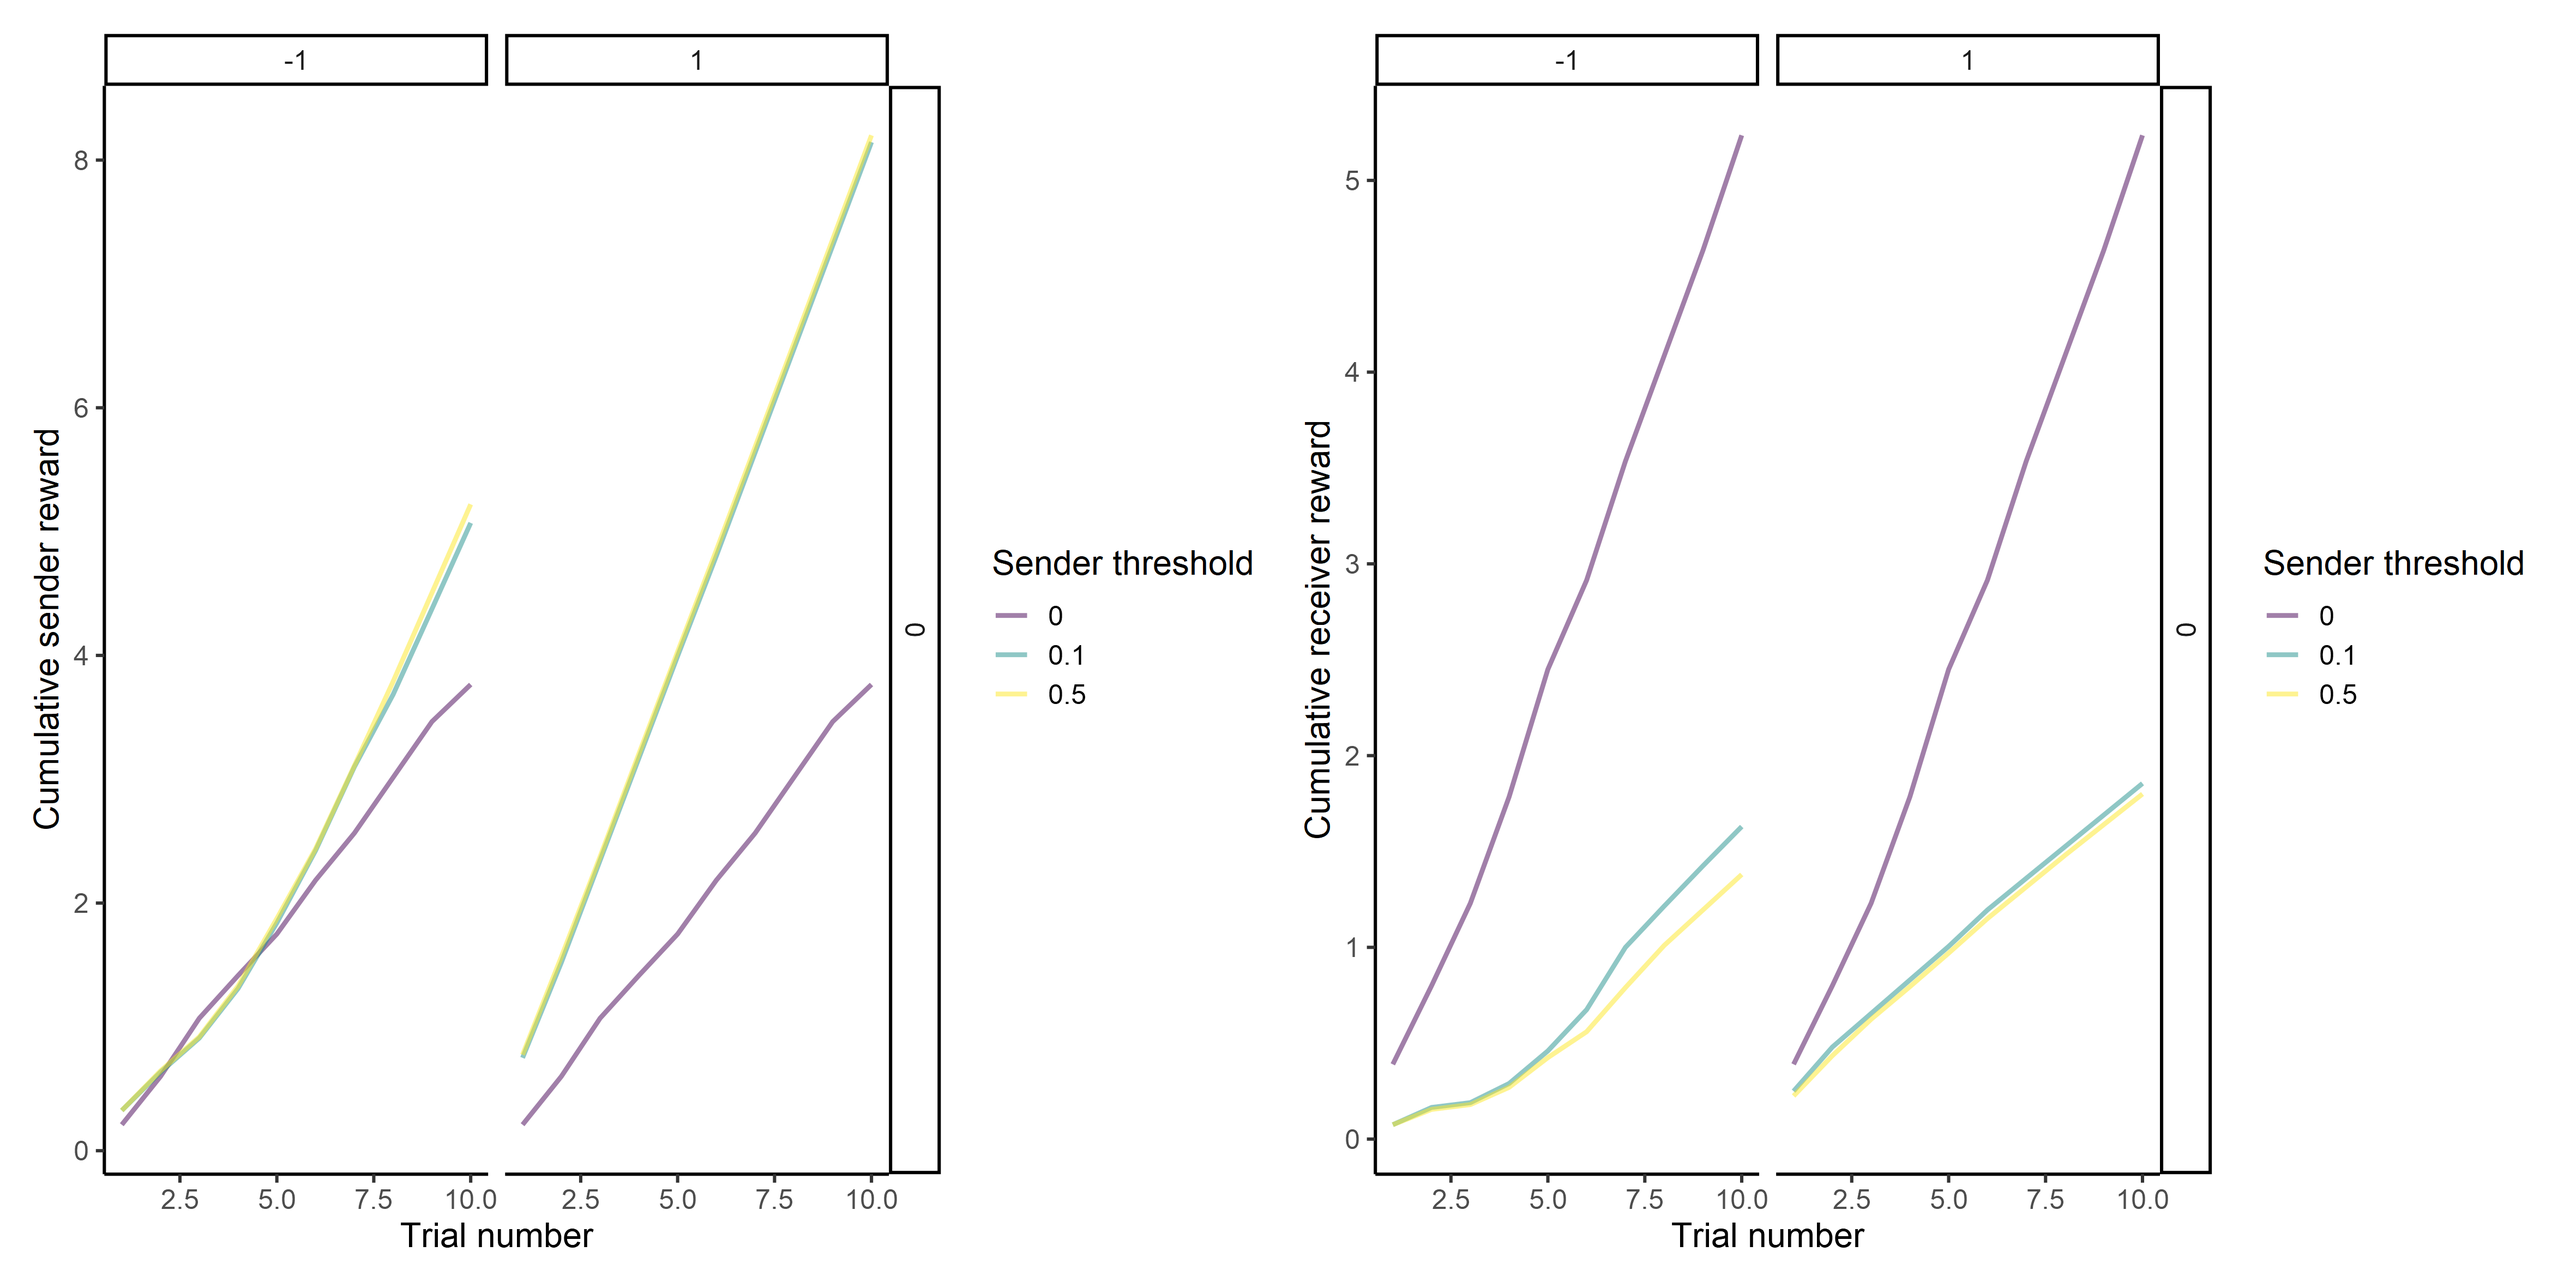
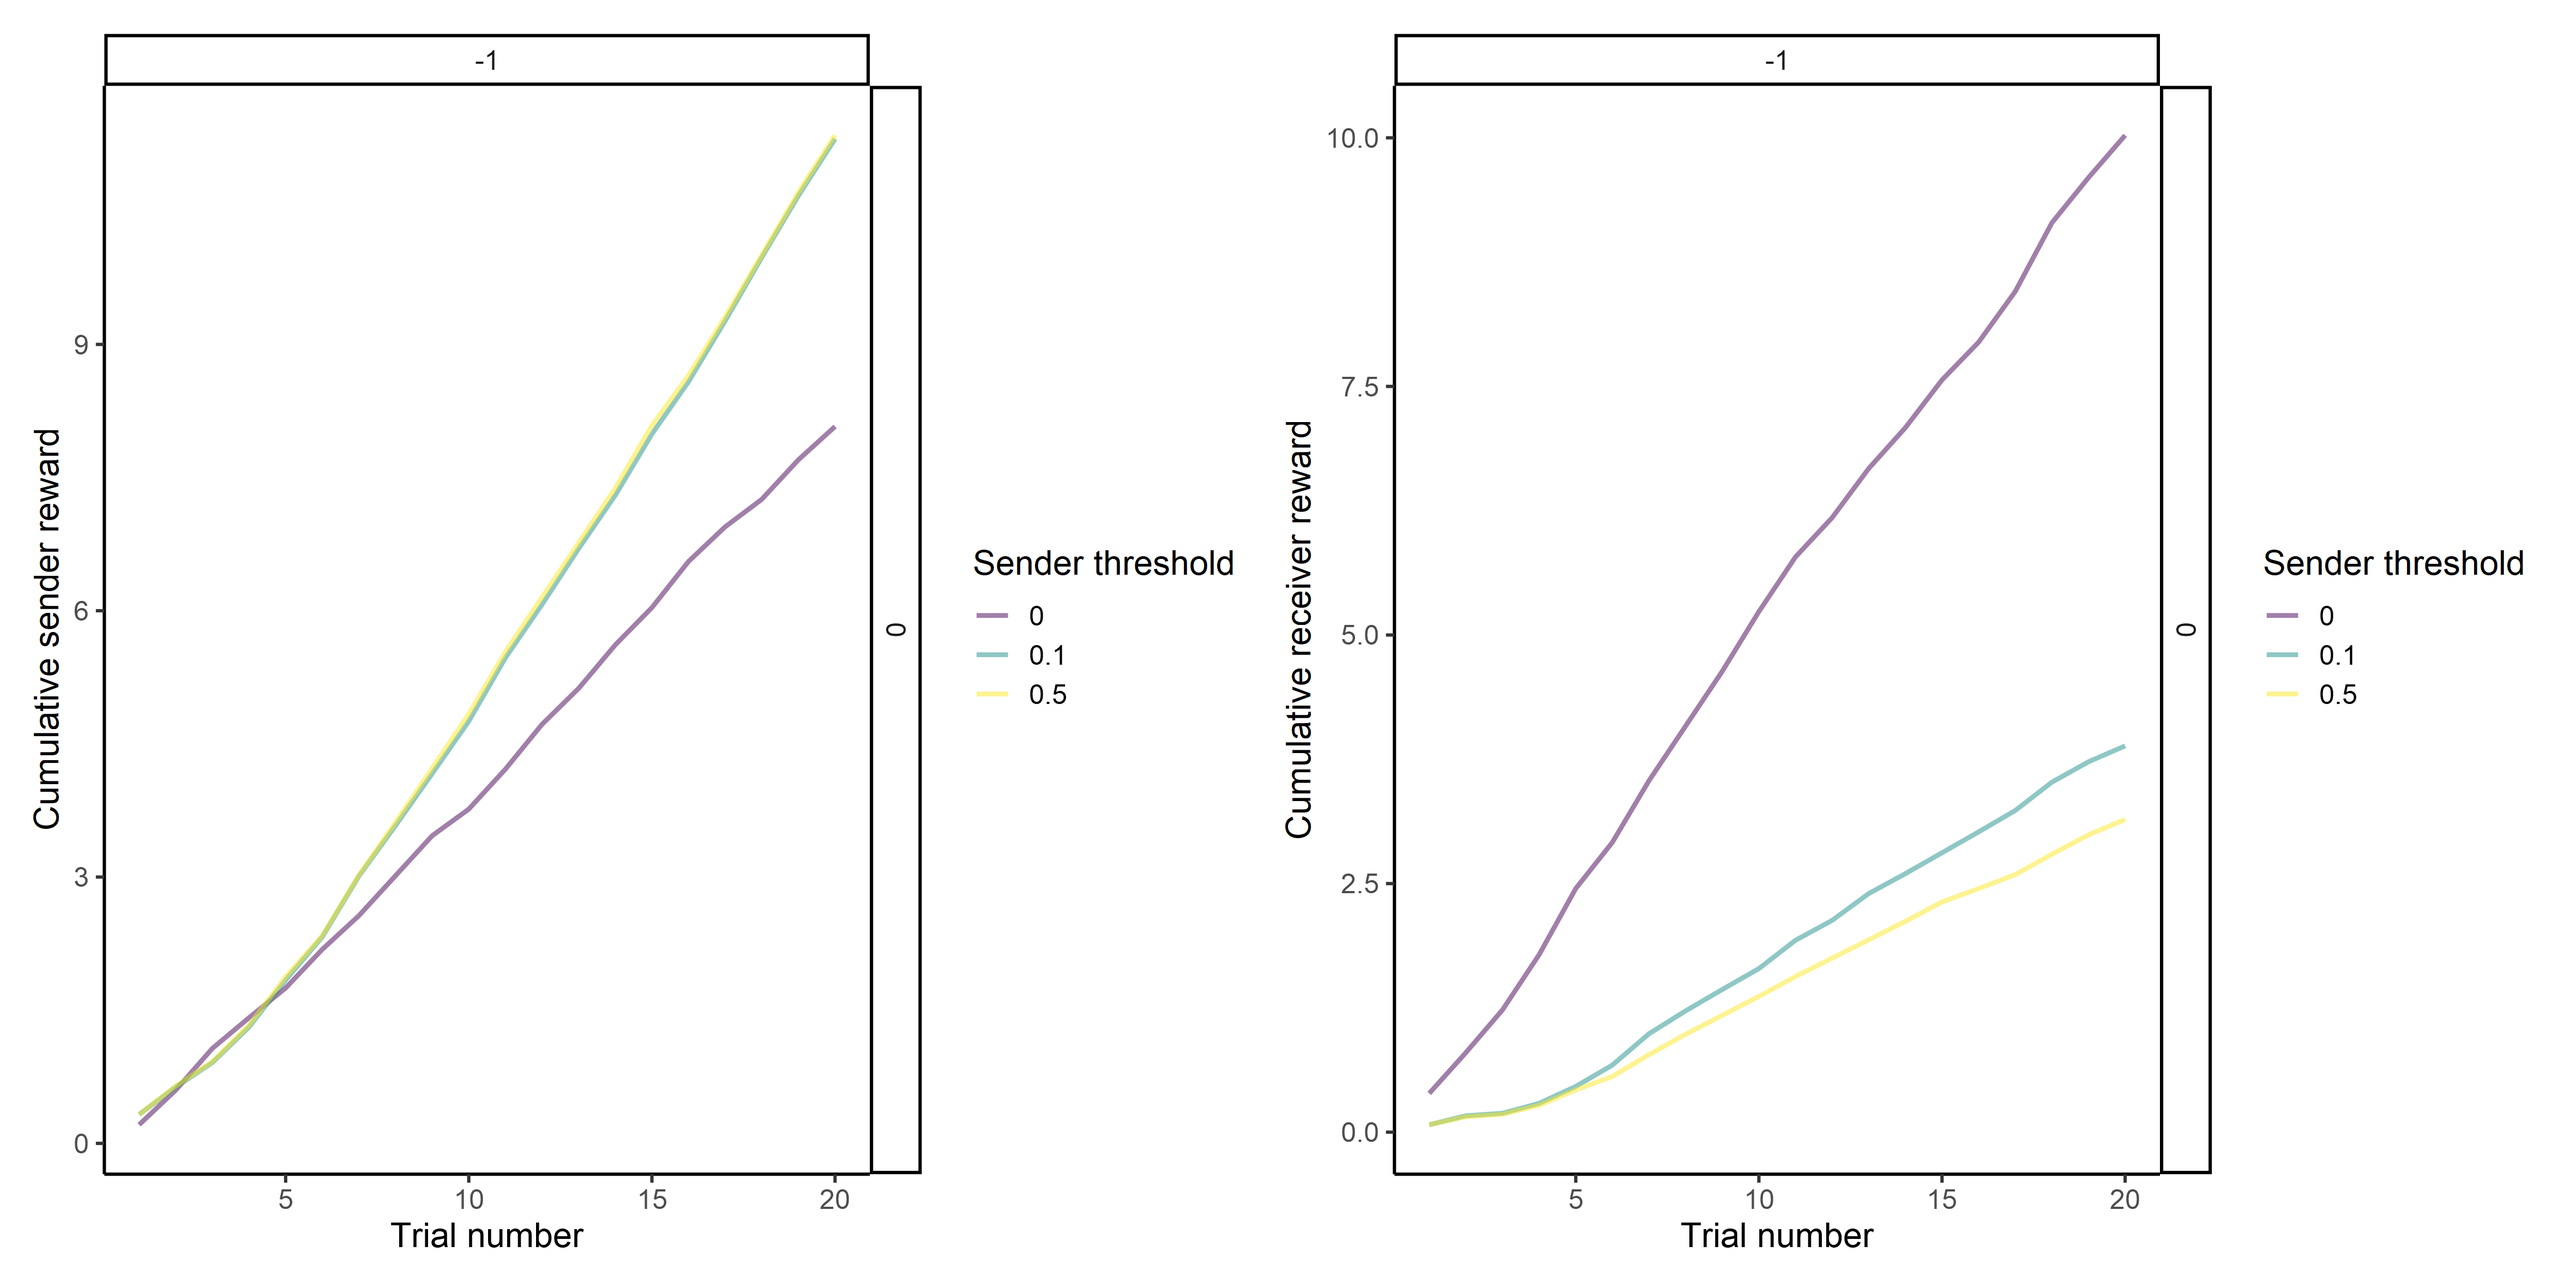
Fix nested Rational SI bounds

diff --git a/agents_models/abstract_agents.py b/agents_models/abstract_agents.py
@@ -29,20 +29,20 @@ class SubIntentionalAgent(ABC):
         self.potential_actions = actions
         self._threshold = threshold
         self.softmax_temp = softmax_temp
-        self._high = 1-self.threshold if threshold is not None else 1.0
-        self.low = 0.0
+        self._high = [1-self.threshold if threshold is not None else 1.0]
+        self.low = [0.0]
         self.name = None
         self.history = History()
         self.belief = SubIntentionalBelief(self.history)
         self._alpha = None
 
     def reset(self, high: Optional[float] = 1.0, low: Optional[float] = 0.0, terminal: Optional[bool] = False):
-        self._high = high
-        self.low = low
+        self._high = [high]
+        self.low = [low]
         self.reset_belief()
         self.reset_solver()
         if terminal:
-            self._high = 1-self.threshold if self.threshold is not None else 1.0
+            self._high = [1-self.threshold if self.threshold is not None else 1.0]
             self.low = 0.0
             self.history.reset(0, 0)
 
@@ -57,7 +57,7 @@ class SubIntentionalAgent(ABC):
     @threshold.setter
     def threshold(self, gamma):
         self._threshold = gamma
-        self._high = 1 - gamma if gamma is not None else 1.0
+        self._high = [1 - gamma if gamma is not None else 1.0]
 
     def softmax_transformation(self, q_values):
         softmax_transformation = np.exp(q_values / self.softmax_temp)
@@ -68,7 +68,7 @@ class SubIntentionalAgent(ABC):
 
     def act(self, seed, action: Optional[Action] = None, observation: Optional[Action] = None,
             iteration_number: Optional[int] = None) -> [float, np.array]:
-        self.update_bounds(action, observation)
+        self.update_bounds(action, observation, iteration_number)
         seed = self.update_seed(seed, iteration_number)
         relevant_actions, q_values, probabilities = self.forward(action, observation, iteration_number)
         random_number_generator = np.random.default_rng(seed)
@@ -81,7 +81,7 @@ class SubIntentionalAgent(ABC):
     def forward(self, action: Action, observation: Action, iteration_number=None):
         pass
 
-    def update_bounds(self, action: Action, observation: Action):
+    def update_bounds(self, action: Action, observation: Action, iteration_number: Optional[int]):
         pass
 
     def update_history(self, action: Action, observation: Action, reward: float):
@@ -157,8 +157,8 @@ class DoMZeroEnvironmentModel(EnvironmentModel):
         self.low = self.opponent_model.low
         self.high = self.opponent_model.high
 
-    def update_low_and_high(self, observation, action):
-        self.opponent_model.update_bounds(observation, action)
+    def update_low_and_high(self, observation, action, iteration_number):
+        self.opponent_model.update_bounds(observation, action, iteration_number)
         self.low = self.opponent_model.low
         self.high = self.opponent_model.high
 
@@ -189,7 +189,7 @@ class DoMZeroEnvironmentModel(EnvironmentModel):
         interactive_state.state.name = str(int(interactive_state.state.name) + 1)
         return interactive_state, counter_offer, reward, observation_probability
 
-    def update_persona(self, observation, action):
+    def update_persona(self, observation, action, iteration_number):
         pass
 
 
@@ -259,7 +259,7 @@ class DoMZeroModel(SubIntentionalAgent):
             best_action = action_nodes[actions[best_action_idx]].action
         else:
             best_action = action_nodes[actions[best_action_idx]]
-        self.environment_model.update_persona(observation, best_action)
+        self.environment_model.update_persona(observation, best_action, iteration_number)
         self.history.update_actions(best_action)
         self.environment_model.opponent_model.history.update_observations(best_action)
         if action_nodes is not None:

diff --git a/agents_models/subintentional_agents/subintentional_senders.py b/agents_models/subintentional_agents/subintentional_senders.py
@@ -24,20 +24,24 @@ class RandomSubIntentionalSender(SubIntentionalAgent):
     def update_seed(self, seed, number):
         return seed + number
 
-    def update_bounds(self, action: Action, observation: Action):
+    def update_bounds(self, action: Action, observation: Action, iteration_number):
         if action.value is None or observation.value is None:
             return None
         # If the subject accepted the offer the upper bound is updated
+        high = self.high[iteration_number - 1]
+        low = self.low[iteration_number - 1]
         if observation.value:
-            self._high = min(action.value, 1.0-self.threshold)
+            high = min(action.value, 1.0-self.threshold)
         # If the offer is rejected the upper bound is updated
         else:
-            self.low = max(action.value, self.low)
+            low = max(action.value, self.low[iteration_number-1])
         # If the opponent plays tricks with us
-        if self._high < self.low:
-            temp = self._high
-            self._high = self.low
-            self.low = temp
+        if high < low:
+            temp = high
+            high = low
+            low = temp
+        self.low.append(low)
+        self.high.append(high)
 
 
 class SoftMaxRationalRandomSubIntentionalSender(RandomSubIntentionalSender):
@@ -59,7 +63,11 @@ class SoftMaxRationalRandomSubIntentionalSender(RandomSubIntentionalSender):
             self._name = "DoM(-1)_Rational"
 
     def _compute_weights(self, offers, low_bound, up_bound):
-        w = np.logical_not(np.logical_and(low_bound < offers, offers <= up_bound))
+        if low_bound < up_bound:
+            w = np.logical_not(np.logical_and(low_bound < offers, offers <= up_bound))
+        # If both bounds are equal to the threshold we do not penalize it
+        else:
+            w = np.logical_not(np.logical_and(low_bound <= offers, offers <= up_bound))
         w_prime = self.penalty * w
         return w_prime
 
@@ -77,7 +85,7 @@ class SoftMaxRationalRandomSubIntentionalSender(RandomSubIntentionalSender):
         return self.potential_actions, q_values, probabilities
 
     def forward(self, action: Action, observation: Action, iteration_number=None):
-        self.update_bounds(action, observation)
+        self.update_bounds(action, observation, iteration_number)
         # Random agents act fully random
         if self.threshold == 0.0:
             potential_actions, q_values, probabilities = self.random_forward(action, observation)

diff --git a/agents_models/intentional_agents/tom_zero_agents/tom_zero_receiver.py b/agents_models/intentional_agents/tom_zero_agents/tom_zero_receiver.py
@@ -44,10 +44,10 @@ class DoMZeroReceiverEnvironmentModel(DoMZeroEnvironmentModel):
     def __init__(self, opponent_model: SubIntentionalAgent, reward_function, actions, belief_distribution: DomZeroReceiverBelief):
         super().__init__(opponent_model, reward_function, actions, belief_distribution)
 
-    def update_persona(self, observation, action):
+    def update_persona(self, observation, action, iteration_number):
         self.opponent_model.low = self.low
         self.opponent_model._high = self.high
-        self.opponent_model.update_bounds(observation, action)
+        self.opponent_model.update_bounds(observation, action, iteration_number)
         self.low = self.opponent_model.low
         self.high = self.opponent_model.high
 
@@ -95,6 +95,8 @@ class DoMZeroReceiverSolver(DoMZeroEnvironmentModel):
         observation_length = len(self.belief.history.observations)
         if update_belief:
             self.belief.update_distribution(action, observation, iteration_number)
+        # Update rational opponent bounds
+        self.update_low_and_high(observation, action, iteration_number)
         # Recursive tree spanning
         q_values_array = []
         for threshold in self.belief.support:
@@ -103,11 +105,13 @@ class DoMZeroReceiverSolver(DoMZeroEnvironmentModel):
                                self.opponent_model.belief)
             future_values = functools.partial(self.recursive_tree_spanning, observation=observation,
                                               opponent_model=self.opponent_model,
-                                              iteration_number=iteration_number)
+                                              iteration_number=0)
             q_values = list(map(future_values, self.surrogate_actions))
             q_values_array.append(q_values)
+        self.reset_persona(None, action_length, observation_length,
+                           self.opponent_model.belief)
         weighted_q_values = self.belief.belief_distribution[-1, :] @ np.array(q_values_array)
-        n_visits = np.repeat(10, self.actions.size)
+        n_visits = np.repeat(self.planning_horizon, self.actions.size)
         return {str(a.value): a for a in self.surrogate_actions}, None, np.c_[self.actions, weighted_q_values, n_visits]
 
     def recursive_tree_spanning(self, action, observation, opponent_model, iteration_number):

diff --git a/agent_factory.py b/agent_factory.py
@@ -10,11 +10,11 @@ class AgentFactory:
         self.softmax_temp = float(self.config.softmax_temperature)
         self.exploration_bonus = float(self.config.get_from_env("uct_exploration_bonus"))
         self.subintentional_weight = float(self.config.get_from_env("subintentional_weight"))
-        self.agent_actions = np.round(np.arange(0, 1.05, 0.05),3)
+        self.agent_actions = np.round(np.arange(0, 1.05, 0.05), 3)
         self.subject_actions = np.array([True, False])
         self.include_random = bool(self.config.get_from_general("include_random"))
-        self._thresholds = [0.1, 0.5]
-        self.thresholds_seq = [0.0, 0.1, 0.5] if self.include_random else [0.1, 0.5]  # parameters to control threshold of agent
+        self._thresholds = [0.0, 0.5]
+        self.thresholds_seq = self._thresholds if self.include_random else self._thresholds[1:]  # parameters to control threshold of agent
         self.grid_size = 0
         self.include_subject_threshold = self.config.get_from_env("subintentional_type")
         self.path_to_memoization_data = self.config.path_to_memoization_data
